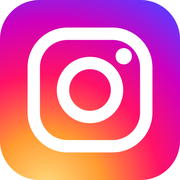
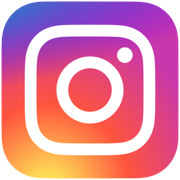
style: favicon을 인스타그램 로고 이미지로 교체

diff --git a/src/app/layout.tsx b/src/app/layout.tsx
@@ -19,11 +19,11 @@ export const metadata: Metadata = {
     template: "%s • Instagram",
   },
   description: "CEOS 24기 Next.js 인스타그램 클론",
-  // favicon: 브라우저마다 지원 형식이 달라서 여러 개를 함께 연결
-  // - SVG: 크롬·파이어폭스 / PNG·ICO: SVG favicon 을 잘 못 쓰는 Safari / apple: 아이폰 홈 화면
+  // favicon: 인스타그램 로고 이미지 (public/icon.png 를 크기별로 줄여서 사용)
+  // - PNG: 대부분의 브라우저 / ICO: 예전 방식(16·32·48px) / apple: 아이폰 홈 화면
   icons: {
     icon: [
-      { url: "/icon.svg", type: "image/svg+xml" },
+      { url: "/icon.png", type: "image/png", sizes: "330x330" },
       { url: "/favicon-32.png", type: "image/png", sizes: "32x32" },
       { url: "/favicon.ico", sizes: "48x48" },
     ],
